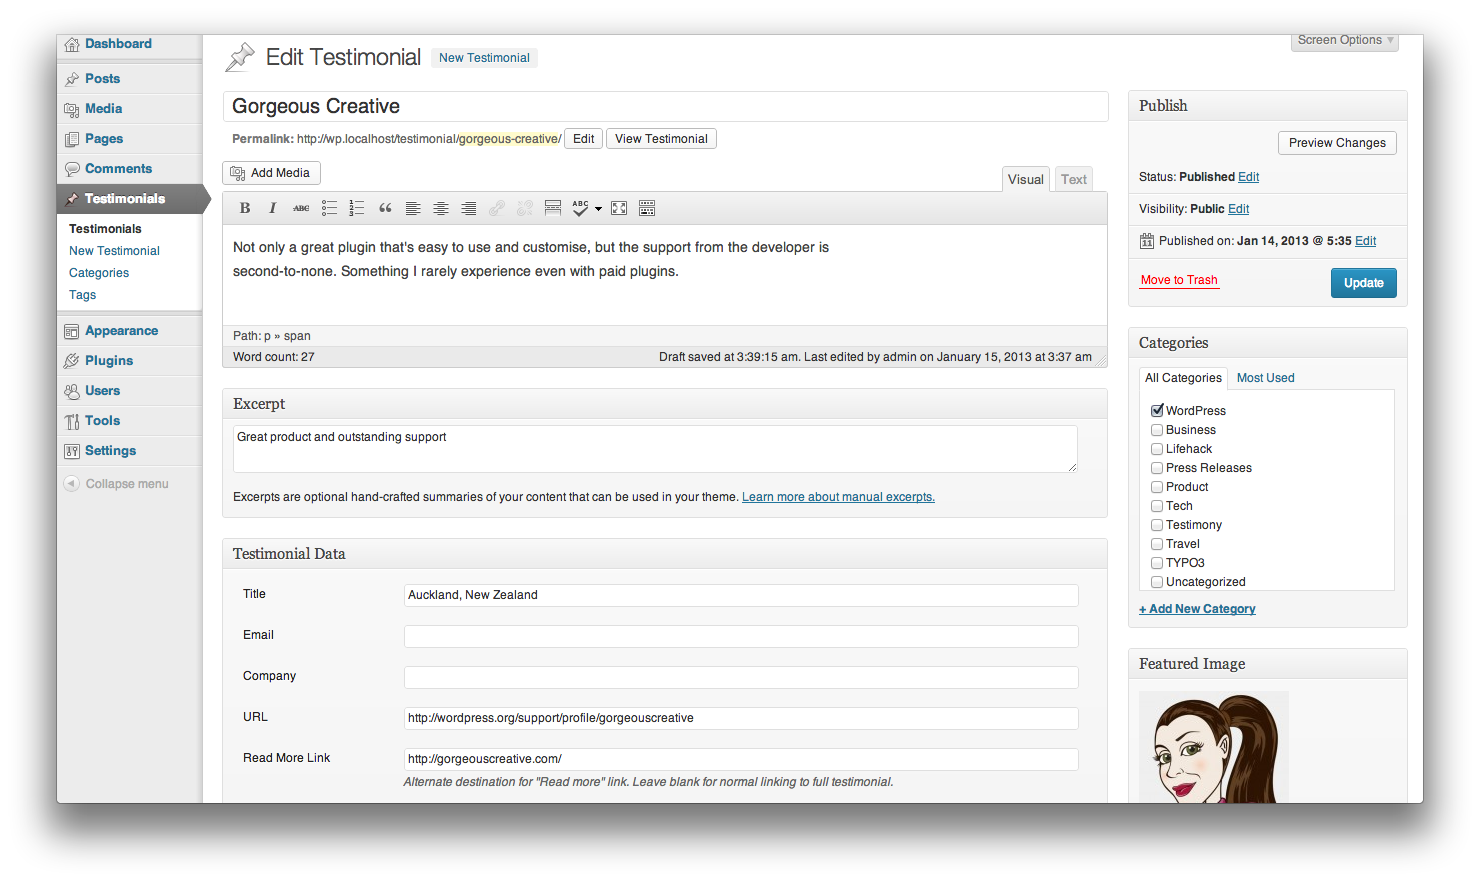
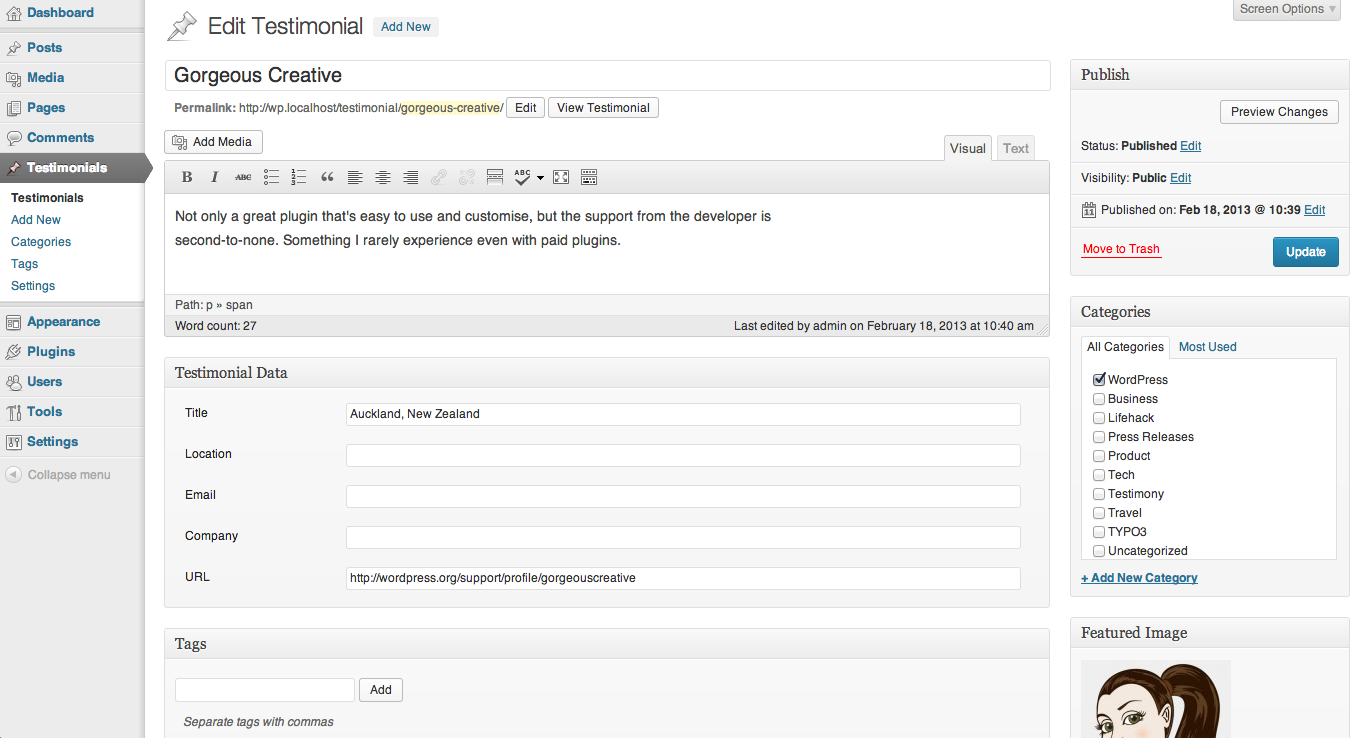
Version 2.9.0
* Add location meta field after title
* Add location related options
* FAQ 18, 34, 35 update
* Screenshot 2, 4, 5 updated

git-svn-id: https://plugins.svn.wordpress.org/testimonials-widget/trunk@681126 b8457f37-d9ea-0310-8a92-e5e31aec5664

Changed region(s): [[0.0, 0.0, 0.9882, 1.0], [0.2779, 0.6545, 0.3706, 0.6856], [0.7721, 0.0935, 0.8338, 0.1247]]

diff --git a/testimonials-widget.css b/testimonials-widget.css
@@ -73,17 +73,20 @@
 }
 
 .testimonialswidget_testimonial .testimonialswidget_join_title,
+.testimonialswidget_testimonial .testimonialswidget_join_location,
 .testimonialswidget_testimonial .testimonialswidget_join {
 	/* section between source and company information */
 }
 
 .testimonialswidget_testimonial .testimonialswidget_join_title:before,
+.testimonialswidget_testimonial .testimonialswidget_join_location:before,
 .testimonialswidget_testimonial .testimonialswidget_join:before {
 	/* join text */
 	content: ", "
 }
 
 .testimonialswidget_testimonial .testimonialswidget_title,
+.testimonialswidget_testimonial .testimonialswidget_location,
 .testimonialswidget_testimonial .testimonialswidget_company,
 .testimonialswidget_testimonial .testimonialswidget_url {
 	/* testimonial title, company and url informaiton */

diff --git a/testimonials-widget.php b/testimonials-widget.php
@@ -3,7 +3,7 @@
 	Plugin Name: Testimonials Widget
 	Plugin URI: http://wordpress.org/extend/plugins/testimonials-widget/
 	Description: Testimonials Widget plugin allows you to display random or rotating portfolio, quotes, reviews, showcases, or text with images on your WordPress blog.
-	Version: 2.8.4
+	Version: 2.9.0
 	Author: Michael Cannon
 	Author URI: http://aihr.us/about-aihrus/michael-cannon-resume/
 	License: GPLv2 or later
@@ -287,6 +287,7 @@ class Testimonials_Widget {
 			break;
 
 		case 'testimonials-widget-company':
+		case 'testimonials-widget-location':
 		case 'testimonials-widget-title':
 			$result				= get_post_meta( $post_id, $column, true );
 			break;
@@ -329,6 +330,7 @@ class Testimonials_Widget {
 			'title'							=> __( 'Source', 'testimonials-widget' ),
 			'shortcode'						=> __( 'Shortcodes', 'testimonials-widget' ),
 			'testimonials-widget-title'		=> __( 'Title', 'testimonials-widget' ),
+			'testimonials-widget-location'	=> __( 'Location', 'testimonials-widget' ),
 			'testimonials-widget-email'		=> __( 'Email', 'testimonials-widget' ),
 			'testimonials-widget-company'	=> __( 'Company', 'testimonials-widget' ),
 			'testimonials-widget-url'		=> __( 'URL', 'testimonials-widget' ),
@@ -651,6 +653,7 @@ EOF;
 		$do_content				= ! $atts['hide_content'] && ! empty( $testimonial['testimonial_content'] );
 		$do_email				= ! $atts['hide_email'] && ! empty( $testimonial['testimonial_email'] ) && is_email( $testimonial['testimonial_email'] );
 		$do_image				= ! $atts['hide_image'] && ! empty( $testimonial['testimonial_image'] );
+		$do_location			= ! $atts['hide_location'] && ! empty( $testimonial['testimonial_location'] );
 		$do_source				= ! $atts['hide_source'] && ! empty( $testimonial['testimonial_source'] );
 		$do_title				= ! $atts['hide_title'] && ! empty( $testimonial['testimonial_title'] );
 		$do_url					= ! $atts['hide_url'] && ! empty( $testimonial['testimonial_url'] );
@@ -739,6 +742,15 @@ EOF;
 		if ( $do_title ) {
 			$cite				.= '<span class="testimonialswidget_title">';
 			$cite				.= $testimonial['testimonial_title'];
+			$cite				.= '</span>';
+		}
+
+		if ( $do_location && $cite )
+			$cite				.= '<span class="testimonialswidget_join_location"></span>';
+
+		if ( $do_location ) {
+			$cite				.= '<span class="testimonialswidget_location">';
+			$cite				.= $testimonial['testimonial_location'];
 			$cite				.= '</span>';
 		}
 
@@ -1162,6 +1174,7 @@ EOF;
 				'testimonial_email'		=> $email,
 				'testimonial_extra'		=> '',
 				'testimonial_image'		=> $image,
+				'testimonial_location'	=> get_post_meta( $post_id, 'testimonials-widget-location', true ),
 				'testimonial_source'	=> $row->post_title,
 				'testimonial_title'		=> get_post_meta( $post_id, 'testimonials-widget-title', true ),
 				'testimonial_url'		=> $url,
@@ -1210,6 +1223,12 @@ EOF;
 					array(
 						'name' 	=> __( 'Title', 'testimonials-widget' ),
 						'id' 	=> 'testimonials-widget-title',
+						'type' 	=> 'text',
+						'desc'	=> '',
+					),
+					array(
+						'name' 	=> __( 'Location', 'testimonials-widget' ),
+						'id' 	=> 'testimonials-widget-location',
 						'type' 	=> 'text',
 						'desc'	=> '',
 					),

diff --git a/lib/settings.testimonials-widget.php b/lib/settings.testimonials-widget.php
@@ -136,6 +136,11 @@ class Testimonials_Widget_Settings {
 			'type'				=> 'checkbox',
 		);
 
+		self::$settings['hide_location']	= array(
+			'title'   			=> __( 'Hide Location?', 'testimonials-widget' ),
+			'type'				=> 'checkbox',
+		);
+
 		self::$settings['hide_company']	= array(
 			'title'   			=> __( 'Hide Company?', 'testimonials-widget' ),
 			'type'				=> 'checkbox',
@@ -721,6 +726,7 @@ EOD;
 		$input['hide_email']	= empty( $input['hide_email'] ) ? 0 : self::is_true_int( $input['hide_email'] );
 		$input['hide_gravatar']	= empty( $input['hide_gravatar'] ) ? 0 : self::is_true_int( $input['hide_gravatar'] );
 		$input['hide_image']	= empty( $input['hide_image'] ) ? 0 : self::is_true_int( $input['hide_image'] );
+		$input['hide_location']	= empty( $input['hide_location'] ) ? 0 : self::is_true_int( $input['hide_location'] );
 		$input['hide_not_found']	= empty( $input['hide_not_found'] ) ? 0 : self::is_true_int( $input['hide_not_found'] );
 		$input['hide_source']	= empty( $input['hide_source'] ) ? 0 : self::is_true_int( $input['hide_source'] );
 		$input['hide_title']	= empty( $input['hide_title'] ) ? 0 : self::is_true_int( $input['hide_title'] );
